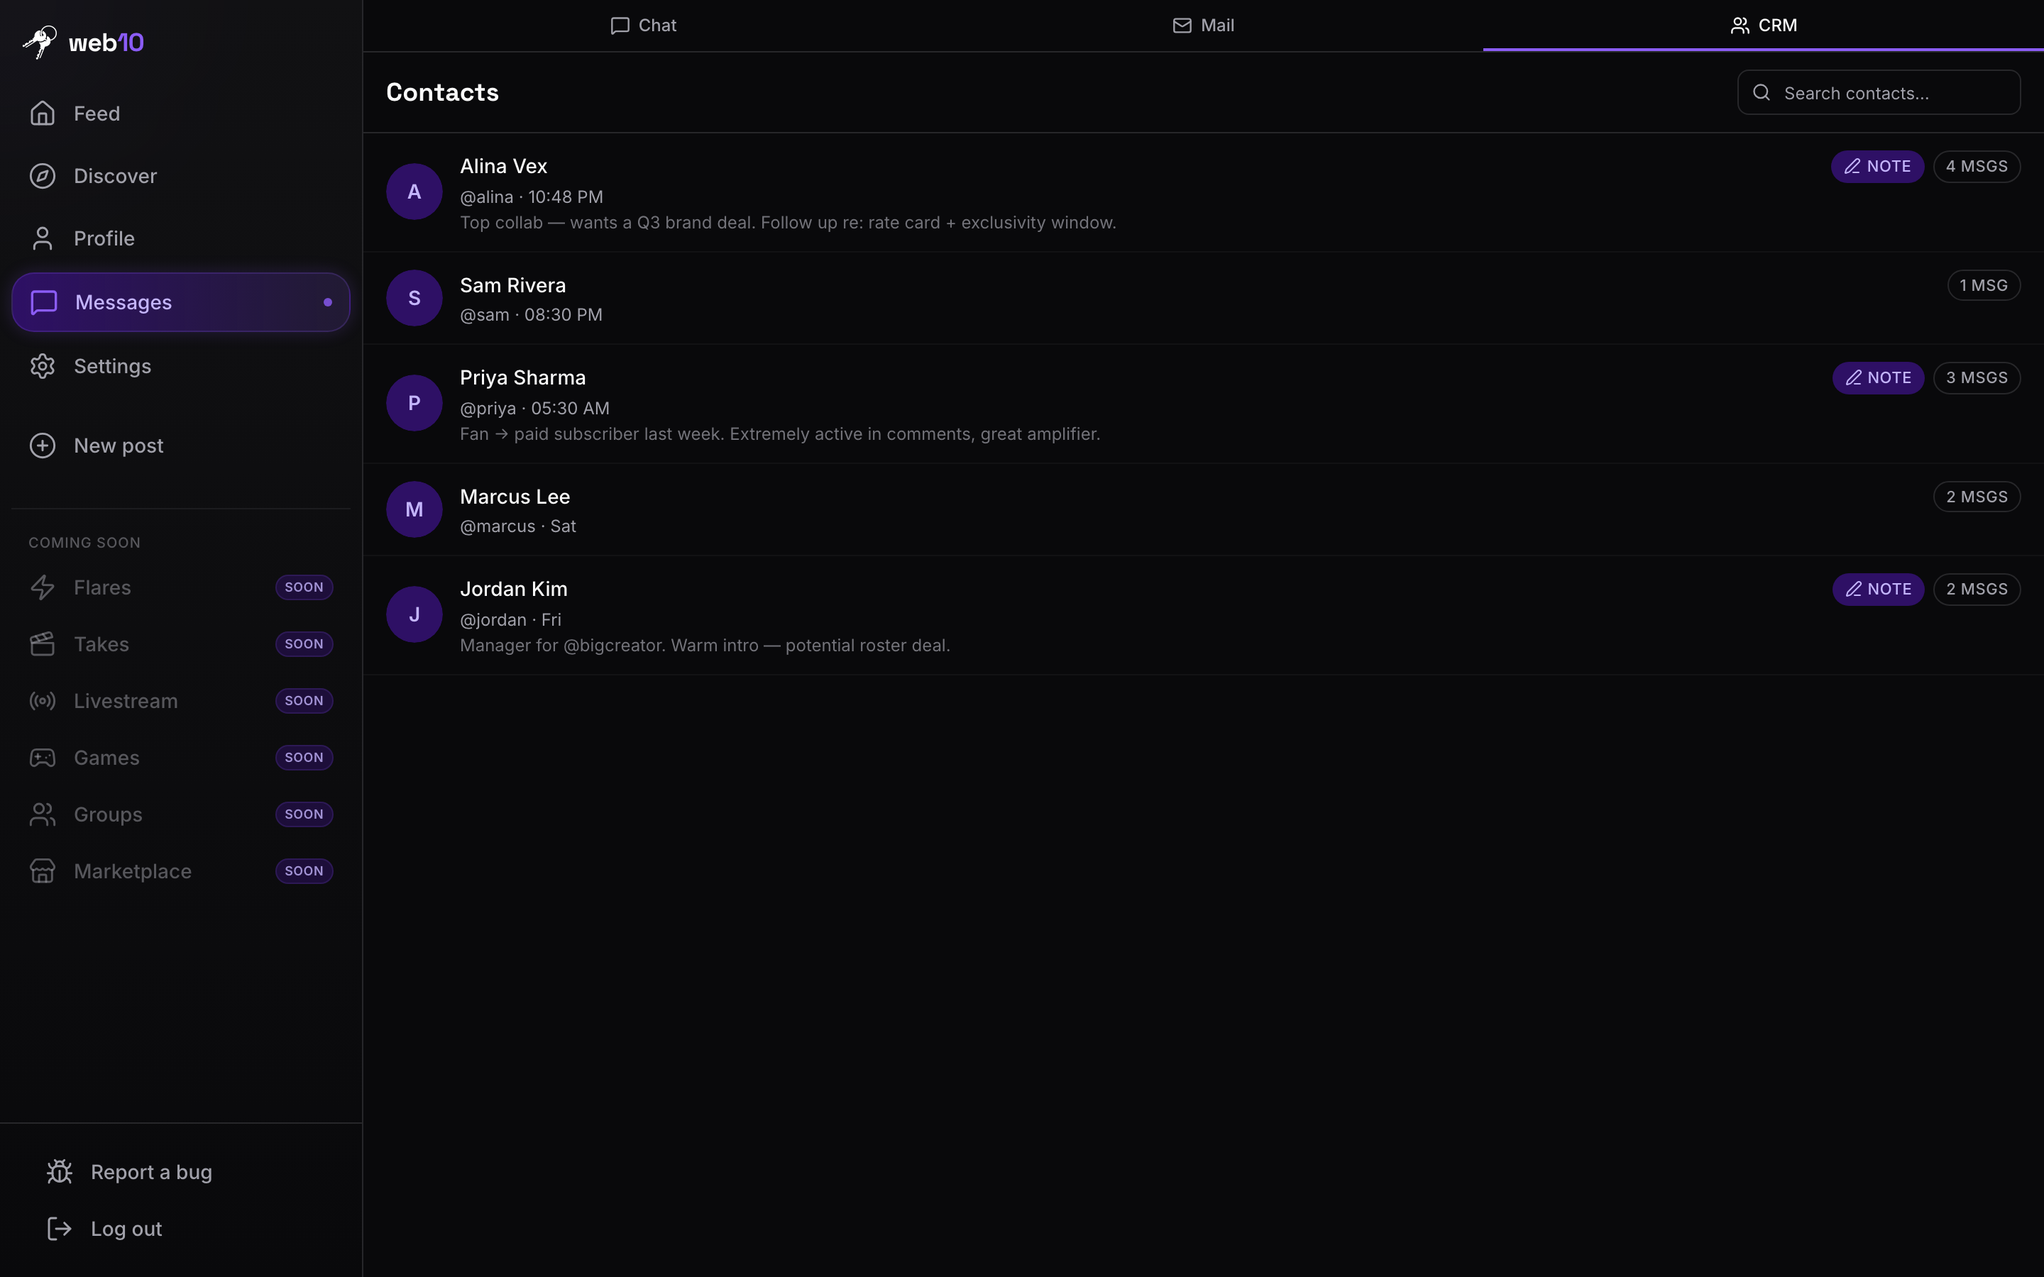
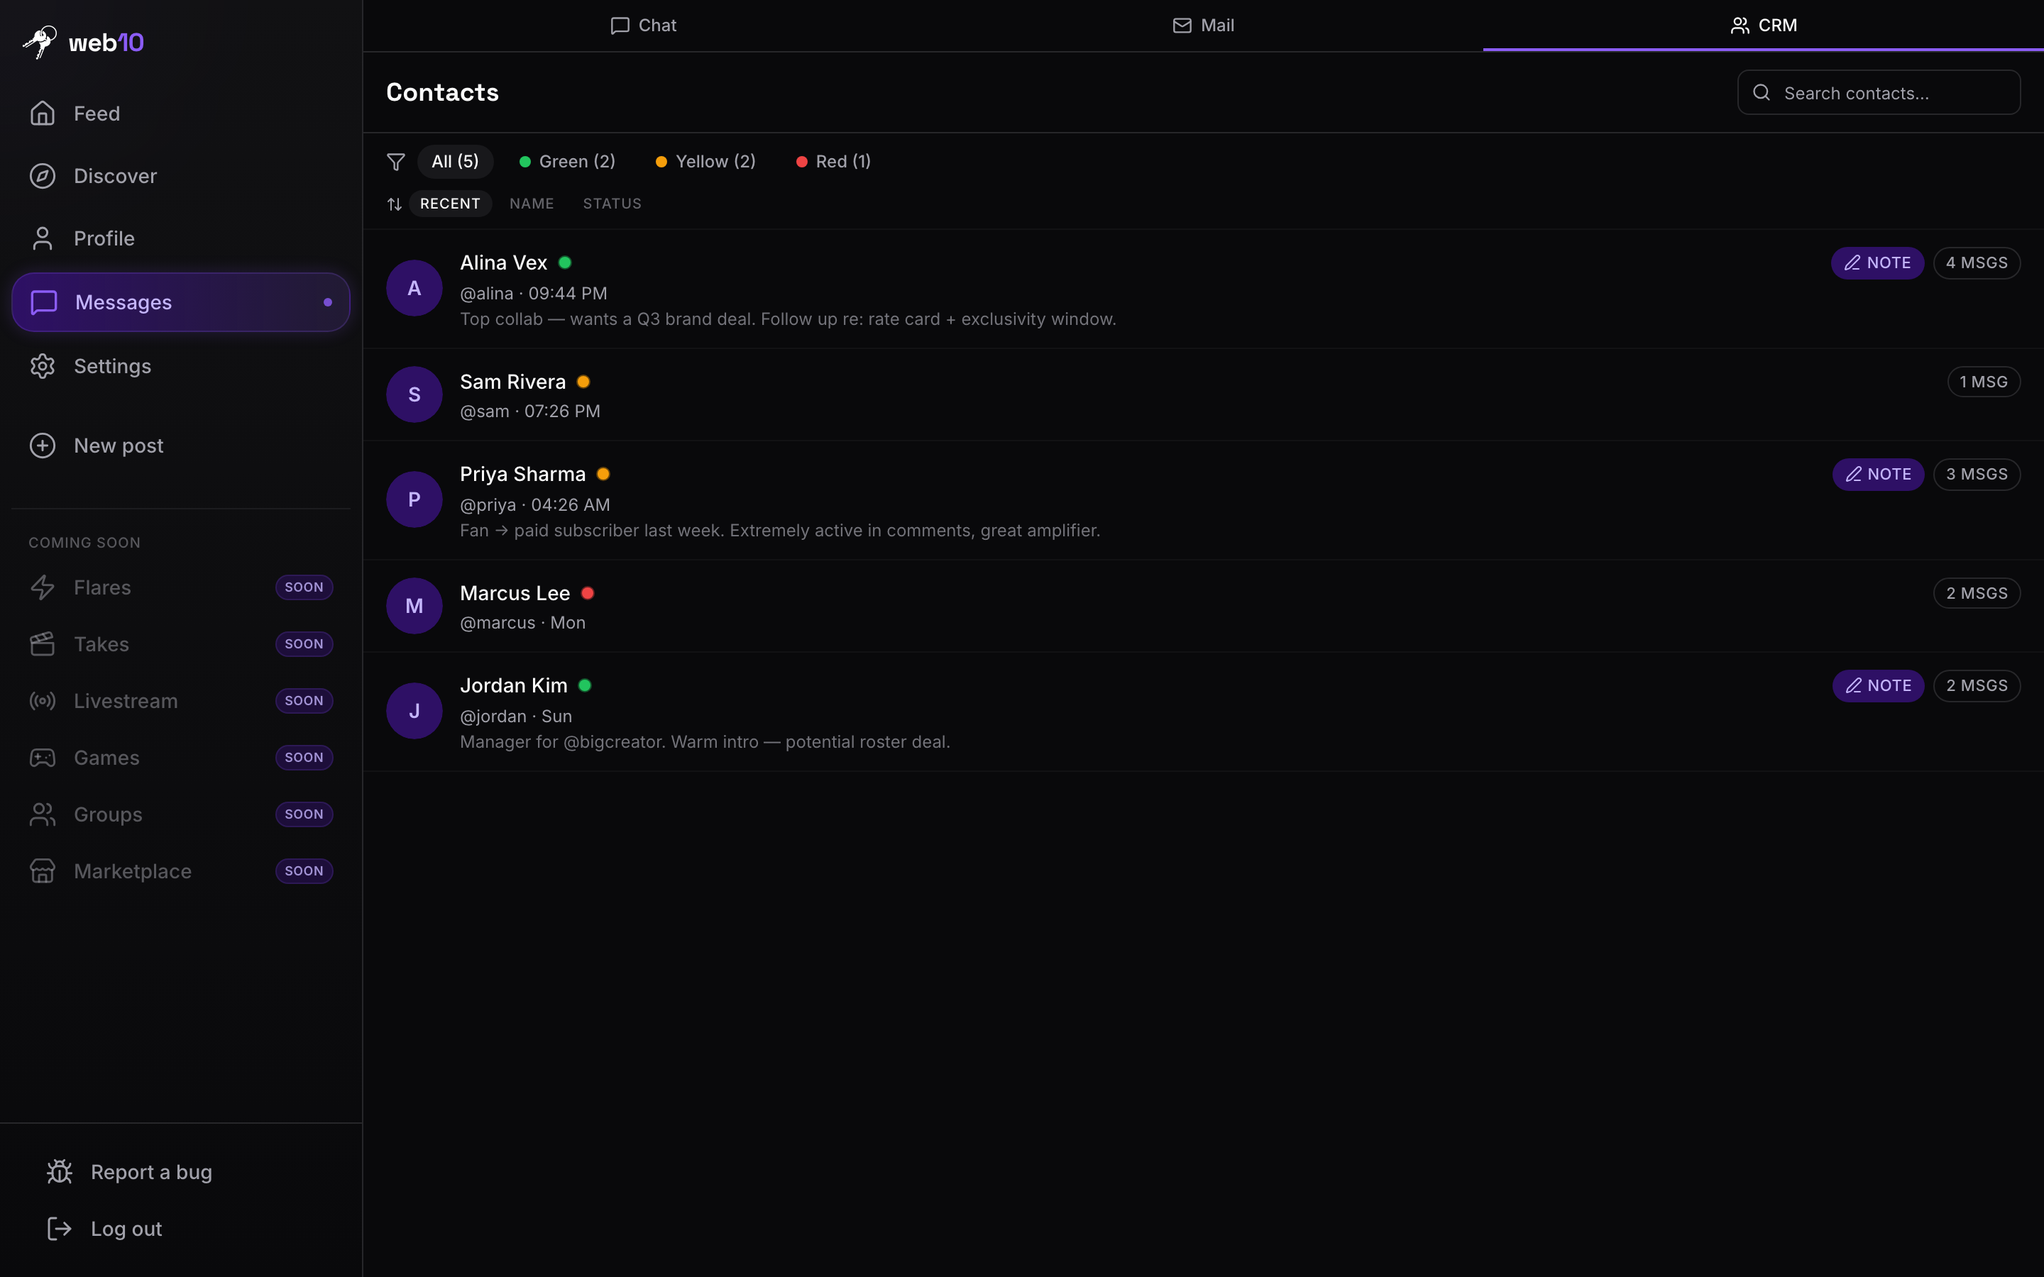
feat(web10-social): D-crm-upgrade bite a — STATUS COLORS
CrmView gains green/yellow/red status on each contact record, settable
from the contact detail card (clickable dot tri-state toggle) and
visible as a status dot next to each name in the contact row. Filter
chips (All, Green, Yellow, Red with counts) and sort buttons (Recent,
Name, Status) sit below the header. crm_status field on ContactRecord;
updateContactStatus in contacts.ts. 351 tests green, tsc clean.

diff --git a/marketing/web10-social/src/components/Chat/CrmView.tsx b/marketing/web10-social/src/components/Chat/CrmView.tsx
@@ -1,4 +1,4 @@
-import { useState, useEffect, useCallback } from 'react';
+import { useState, useEffect, useCallback, useMemo } from 'react';
 import { Avatar, AvatarFallback } from '@/components/ui/avatar';
 import { Badge } from '@/components/ui/badge';
 import { Skeleton } from '@/components/ui/skeleton';
@@ -6,9 +6,9 @@ import { Input } from '@/components/ui/input';
 import { Button } from '@/components/ui/button';
 import { Textarea } from '@/components/ui/textarea';
 import { getWapi } from '@/data/wapi';
-import { readContacts, listConversations, readDms, updateContactNote } from '@/data';
-import type { DmRecord, ContactRecord } from '@/data/types';
-import { Search, User, MessageSquare, Edit3, Save, X, ChevronLeft, Clock, Calendar } from 'lucide-react';
+import { readContacts, listConversations, readDms, updateContactNote, updateContactStatus } from '@/data';
+import type { DmRecord, ContactRecord, CrmStatus } from '@/data/types';
+import { Search, User, MessageSquare, Edit3, Save, X, ChevronLeft, Clock, Calendar, ArrowUpDown, Filter } from 'lucide-react';
 import { cn } from '@/lib/utils';
 
 function formatTime(dateStr: string): string {
@@ -45,6 +45,30 @@ interface CrmContactEntry {
   lastMessage: DmRecord | null;
   note: string;
   conversation: string;
+  crmStatus: CrmStatus | undefined;
+}
+
+const STATUS_COLORS: Record<CrmStatus, { bg: string; ring: string; label: string }> = {
+  green: { bg: 'bg-success', ring: 'ring-success/40', label: 'Green' },
+  yellow: { bg: 'bg-warning', ring: 'ring-warning/40', label: 'Yellow' },
+  red: { bg: 'bg-danger', ring: 'ring-danger/40', label: 'Red' },
+};
+
+function StatusDot({ status, size = 'sm' }: { status: CrmStatus | undefined; size?: 'sm' | 'md' }) {
+  if (!status) return null;
+  const c = STATUS_COLORS[status];
+  return (
+    <span
+      className={cn(
+        'shrink-0 rounded-full ring-1',
+        c.bg,
+        c.ring,
+        size === 'sm' ? 'h-2 w-2' : 'h-3 w-3',
+      )}
+      data-testid={`crm-status-${status}`}
+      title={c.label}
+    />
+  );
 }
 
 function ContactSkeleton() {
@@ -79,9 +103,12 @@ function ContactRow({
       </Avatar>
       <div className="flex-1 min-w-0">
         <div className="flex items-center justify-between gap-2">
-          <span className="text-sm font-medium text-foreground truncate">
-            {entry.displayName}
-          </span>
+          <div className="flex items-center gap-2 min-w-0">
+            <span className="text-sm font-medium text-foreground truncate">
+              {entry.displayName}
+            </span>
+            <StatusDot status={entry.crmStatus} />
+          </div>
           <div className="flex items-center gap-1.5 shrink-0">
             {entry.note && (
               <Badge variant="brand">
@@ -113,10 +140,12 @@ function ContactDetail({
   entry,
   onBack,
   onSaveNote,
+  onSaveStatus,
 }: {
   entry: CrmContactEntry;
   onBack: () => void;
   onSaveNote: (userKey: string, note: string) => void;
+  onSaveStatus: (userKey: string, status: CrmStatus | undefined) => void;
 }) {
   const [messages, setMessages] = useState<DmRecord[]>([]);
   const [editingNote, setEditingNote] = useState(false);
@@ -207,6 +236,26 @@ function ContactDetail({
                 </span>
               </div>
             )}
+            <div className="flex items-center justify-between">
+              <span className="text-xs text-muted-foreground">Status</span>
+              <div className="flex items-center gap-1.5">
+                {(Object.keys(STATUS_COLORS) as CrmStatus[]).map((s) => (
+                  <button
+                    key={s}
+                    onClick={() => onSaveStatus(entry.userKey, entry.crmStatus === s ? undefined : s)}
+                    className={cn(
+                      'rounded-full transition-all duration-150',
+                      entry.crmStatus === s
+                        ? `${STATUS_COLORS[s].bg} h-4 w-4 ring-2 ${STATUS_COLORS[s].ring}`
+                        : `${STATUS_COLORS[s].bg} h-2.5 w-2.5 opacity-30 hover:opacity-60`,
+                    )}
+                    aria-label={`Set status ${STATUS_COLORS[s].label}`}
+                    data-testid={`crm-detail-status-${s}`}
+                    title={STATUS_COLORS[s].label}
+                  />
+                ))}
+              </div>
+            </div>
           </div>
         </div>
 
@@ -341,6 +390,10 @@ export default function CrmView() {
   const [loading, setLoading] = useState(true);
   const [search, setSearch] = useState('');
   const [selectedContact, setSelectedContact] = useState<CrmContactEntry | null>(null);
+  const [statusFilter, setStatusFilter] = useState<CrmStatus | 'all'>('all');
+  const [sortBy, setSortBy] = useState<'lastMessage' | 'name' | 'status'>('lastMessage');
+
+  const statusOrder: Record<CrmStatus, number> = { red: 0, yellow: 1, green: 2 };
 
   const loadContacts = useCallback(async () => {
     setLoading(true);
@@ -384,16 +437,11 @@ export default function CrmView() {
           lastMessage: lastMsg,
           note: contact?.note || '',
           conversation: conv,
+          crmStatus: contact?.crm_status,
         } as CrmContactEntry;
       });
 
-      const loaded = await Promise.all(entryPromises);
-      loaded.sort((a, b) => {
-        const aTime = a.lastMessage ? new Date(a.lastMessage.sent_at).getTime() : 0;
-        const bTime = b.lastMessage ? new Date(b.lastMessage.sent_at).getTime() : 0;
-        return bTime - aTime;
-      });
-      setContacts(loaded);
+      setContacts(await Promise.all(entryPromises));
     } catch (e) {
       console.error('Failed to load CRM contacts:', e);
     }
@@ -423,13 +471,54 @@ export default function CrmView() {
     }
   }
 
-  const filtered = search.trim()
-    ? contacts.filter((c) =>
-        c.displayName.toLowerCase().includes(search.toLowerCase()) ||
-        c.username.toLowerCase().includes(search.toLowerCase()) ||
-        c.note.toLowerCase().includes(search.toLowerCase()),
-      )
-    : contacts;
+  async function handleSaveStatus(userKey: string, status: CrmStatus | undefined) {
+    try {
+      const contact = contacts.find((c) => c.userKey === userKey);
+      if (contact?.contact?._id) {
+        await updateContactStatus(contact.contact._id, status);
+      }
+      setContacts((prev) =>
+        prev.map((c) =>
+          c.userKey === userKey ? { ...c, crmStatus: status } : c,
+        ),
+      );
+      if (selectedContact?.userKey === userKey) {
+        setSelectedContact((prev) => prev ? { ...prev, crmStatus: status } : null);
+      }
+    } catch (e) {
+      console.error('Failed to save status:', e);
+    }
+  }
+
+  const filtered = useMemo(() => {
+    let result = contacts;
+    if (statusFilter !== 'all') {
+      result = result.filter((c) => c.crmStatus === statusFilter);
+    }
+    if (search.trim()) {
+      const q = search.toLowerCase();
+      result = result.filter((c) =>
+        c.displayName.toLowerCase().includes(q) ||
+        c.username.toLowerCase().includes(q) ||
+        c.note.toLowerCase().includes(q),
+      );
+    }
+    result = [...result].sort((a, b) => {
+      if (sortBy === 'name') {
+        return a.displayName.localeCompare(b.displayName);
+      }
+      if (sortBy === 'status') {
+        const aS = a.crmStatus !== undefined ? statusOrder[a.crmStatus] : 99;
+        const bS = b.crmStatus !== undefined ? statusOrder[b.crmStatus] : 99;
+        return aS - bS;
+      }
+      // lastMessage
+      const aTime = a.lastMessage ? new Date(a.lastMessage.sent_at).getTime() : 0;
+      const bTime = b.lastMessage ? new Date(b.lastMessage.sent_at).getTime() : 0;
+      return bTime - aTime;
+    });
+    return result;
+  }, [contacts, statusFilter, search, sortBy]);
 
   if (selectedContact) {
     return (
@@ -437,6 +526,7 @@ export default function CrmView() {
         entry={selectedContact}
         onBack={() => setSelectedContact(null)}
         onSaveNote={handleSaveNote}
+        onSaveStatus={handleSaveStatus}
       />
     );
   }
@@ -454,6 +544,62 @@ export default function CrmView() {
             data-testid="crm-search"
             className="w-full h-8 pl-8 pr-2 rounded-sm border border-input bg-transparent text-xs placeholder:text-muted-foreground focus:outline-none focus:ring-2 focus:ring-brand/50 transition-colors duration-150"
           />
+        </div>
+      </div>
+
+      {/* Filter chips + sort */}
+      <div className="px-4 py-2 border-b border-border/30 flex flex-col gap-2">
+        <div className="flex items-center gap-2 overflow-x-auto">
+          <Filter className="w-3.5 h-3.5 text-muted-foreground shrink-0" />
+          <button
+            onClick={() => setStatusFilter('all')}
+            className={cn(
+              'px-2.5 py-1 rounded-full text-xs font-medium transition-colors duration-150 shrink-0',
+              statusFilter === 'all'
+                ? 'bg-elevated text-foreground'
+                : 'text-muted-foreground hover:text-foreground hover:bg-elevated/50',
+            )}
+            data-testid="crm-filter-all"
+          >
+            All ({contacts.length})
+          </button>
+          {(Object.keys(STATUS_COLORS) as CrmStatus[]).map((s) => {
+            const count = contacts.filter((c) => c.crmStatus === s).length;
+            return (
+              <button
+                key={s}
+                onClick={() => setStatusFilter(s)}
+                className={cn(
+                  'flex items-center gap-1.5 px-2.5 py-1 rounded-full text-xs font-medium transition-colors duration-150 shrink-0',
+                  statusFilter === s
+                    ? `bg-elevated text-foreground`
+                    : 'text-muted-foreground hover:text-foreground hover:bg-elevated/50',
+                )}
+                data-testid={`crm-filter-${s}`}
+              >
+                <span className={cn('w-2 h-2 rounded-full', STATUS_COLORS[s].bg)} />
+                {STATUS_COLORS[s].label} ({count})
+              </button>
+            );
+          })}
+        </div>
+        <div className="flex items-center gap-1">
+          <ArrowUpDown className="w-3 h-3 text-muted-foreground shrink-0" />
+          {(['lastMessage', 'name', 'status'] as const).map((s) => (
+            <button
+              key={s}
+              onClick={() => setSortBy(s)}
+              className={cn(
+                'px-2 py-0.5 rounded text-[10px] font-medium uppercase tracking-wider transition-colors duration-150',
+                sortBy === s
+                  ? 'bg-elevated text-foreground'
+                  : 'text-muted-foreground/60 hover:text-muted-foreground hover:bg-elevated/30',
+              )}
+              data-testid={`crm-sort-${s}`}
+            >
+              {s === 'lastMessage' ? 'Recent' : s}
+            </button>
+          ))}
         </div>
       </div>
 

diff --git a/marketing/web10-social/screenshots/harness/mock-data.ts b/marketing/web10-social/screenshots/harness/mock-data.ts
@@ -84,6 +84,7 @@ const contacts: ContactRecord[] = PEERS.map((p, i) => ({
   note: p.note,
   added_at: p.added_at,
   spam_flagged: p.username === 'sam',
+  crm_status: i % 3 === 0 ? 'green' : i % 3 === 1 ? 'yellow' : 'red',
 }));
 
 const threads: Record<string, DmRecord[]> = {};
@@ -124,6 +125,11 @@ export async function updateContactNote(id: string, note: string): Promise<Conta
   if (c) c.note = note;
   return c ?? ({ _id: id, username: '', provider: 'web10', note } as ContactRecord);
 }
+export async function updateContactStatus(id: string, status: string | undefined): Promise<ContactRecord> {
+  const c = contacts.find((x) => x._id === id);
+  if (c) c.crm_status = status as any;
+  return c ?? ({ _id: id, username: '', provider: 'web10', crm_status: status } as ContactRecord);
+}
 export async function sendDm(): Promise<DmRecord> {
   return { _id: 'new', message: '', sent_at: new Date().toISOString(), sender_username: 'me', sender_provider: 'web10', recipient_username: '', recipient_provider: 'web10' };
 }
@@ -140,6 +146,14 @@ export async function spamFlagUser(username: string, provider: string): Promise<
 export async function unspamFlagUser(username: string, provider: string): Promise<void> {
   const c = contacts.find((x) => x.username === username && x.provider === provider);
   if (c) c.spam_flagged = false;
+}
+export async function toggleSpamFlag(id: string, flagged: boolean): Promise<ContactRecord> {
+  const c = contacts.find((x) => x._id === id);
+  if (c) c.spam_flagged = flagged;
+  return c ?? ({ _id: id, username: '', provider: 'web10', spam_flagged: flagged } as ContactRecord);
+}
+export async function readSpamFlaggedContacts(): Promise<ContactRecord[]> {
+  return contacts.filter((c) => c.spam_flagged);
 }
 export function classifyThread(
   lastMsg: DmRecord | null,

diff --git a/marketing/web10-social/src/__tests__/data/contacts.test.ts b/marketing/web10-social/src/__tests__/data/contacts.test.ts
@@ -145,4 +145,30 @@ describe('contacts data layer', () => {
       expect(result.length).toBe(1);
     });
   });
+
+  describe('updateContactStatus', () => {
+    it('sets crm_status on a contact', async () => {
+      const updated = { _id: 'c1', username: 'bob', provider: 'api.web10.app', crm_status: 'red' };
+      mock.update.mockResolvedValue(updated);
+      const result = await contacts.updateContactStatus('c1', 'red');
+      expect(mock.update).toHaveBeenCalledWith('contacts', { _id: 'c1' }, { $set: { crm_status: 'red' } });
+      expect(result.crm_status).toBe('red');
+    });
+
+    it('clears crm_status when set to undefined', async () => {
+      const updated = { _id: 'c1', username: 'bob', provider: 'api.web10.app', crm_status: undefined };
+      mock.update.mockResolvedValue(updated);
+      const result = await contacts.updateContactStatus('c1', undefined);
+      expect(mock.update).toHaveBeenCalledWith('contacts', { _id: 'c1' }, { $set: { crm_status: undefined } });
+      expect(result.crm_status).toBeUndefined();
+    });
+
+    it('supports all three status values', async () => {
+      for (const status of ['green', 'yellow', 'red'] as const) {
+        mock.update.mockResolvedValue({ _id: 'c1', crm_status: status });
+        const result = await contacts.updateContactStatus('c1', status);
+        expect(result.crm_status).toBe(status);
+      }
+    });
+  });
 });

diff --git a/marketing/web10-social/src/data/contacts.ts b/marketing/web10-social/src/data/contacts.ts
@@ -1,5 +1,5 @@
 import { getWapi } from './wapi';
-import type { ContactRecord } from './types';
+import type { ContactRecord, CrmStatus } from './types';
 
 // ── Contacts data layer ────────────────────────────────────────────────────
 // The `contacts` service: unilateral friend graph.
@@ -132,6 +132,13 @@ export async function readSpamFlaggedContacts(): Promise<ContactRecord[]> {
  */
 export async function readContactsForCrm(): Promise<ContactRecord[]> {
   return readContacts();
+}
+
+/**
+ * Update a contact's CRM status (green/yellow/red priority).
+ */
+export async function updateContactStatus(id: string, status: CrmStatus | undefined): Promise<ContactRecord> {
+  return updateContact(id, { crm_status: status });
 }
 
 /**

diff --git a/marketing/web10-social/src/data/types.ts b/marketing/web10-social/src/data/types.ts
@@ -90,6 +90,8 @@ export interface ProfileRecord {
 
 // ── contacts ────────────────────────────────────────────────────────────────
 
+export type CrmStatus = 'green' | 'yellow' | 'red';
+
 export interface ContactRecord {
   _id?: string;
   username: string;
@@ -99,6 +101,7 @@ export interface ContactRecord {
   added_at?: string;
   note?: string;
   spam_flagged?: boolean;
+  crm_status?: CrmStatus;
 }
 
 // ── follows ─────────────────────────────────────────────────────────────────

diff --git a/CHANGELOG.md b/CHANGELOG.md
@@ -1,3 +1,6 @@
+1.0.210 || 28.07.2026
+feat(web10-social): D-crm-upgrade bite a — STATUS COLORS. CrmView gains green/yellow/red status on each contact record, settable from the contact detail card (clickable dot tri-state toggle) and visible as a status dot next to each name in the contact row. Filter chips (All, Green, Yellow, Red with counts) and sort buttons (Recent, Name, Status — red first, then yellow, green, untagged last) sit below the header. `crm_status` field on ContactRecord; `updateContactStatus` in contacts.ts. Screenshot harness mock data updated with status seeds + `updateContactStatus`/`toggleSpamFlag`/`readSpamFlaggedContacts` stubs. 351 tests green, tsc clean; screenshotted desktop + 375px.
+
 1.0.209 || 27.07.2026
 fix(marketing-ui): D-trending-controls-alignment — the /trending controls stack padding/alignment (operator, 27.07, screenshot: presets crammed under the header border, centered off-axis). (1) The KnobRack container had `pb-4` but zero top padding, so the preset pills sat almost touching the header's border-b — now `pt-6 pb-4`. (2) The presets row + Advanced toggle were `justify-center` while the search bar above is left-aligned in the content column — the whole controls stack is now on the one content-column axis (`justify-start`). (3) The topic-chip rail's hard-clipped trailing chip now fades out via a right-edge mask gradient, so a partial chip reads as scrollable, not bricked. Swept at 375px — no edge clipping. 105 marketing-ui tests green, tsc + vite build clean; screenshotted desktop + 375px.
 1.0.208 || 27.07.2026
